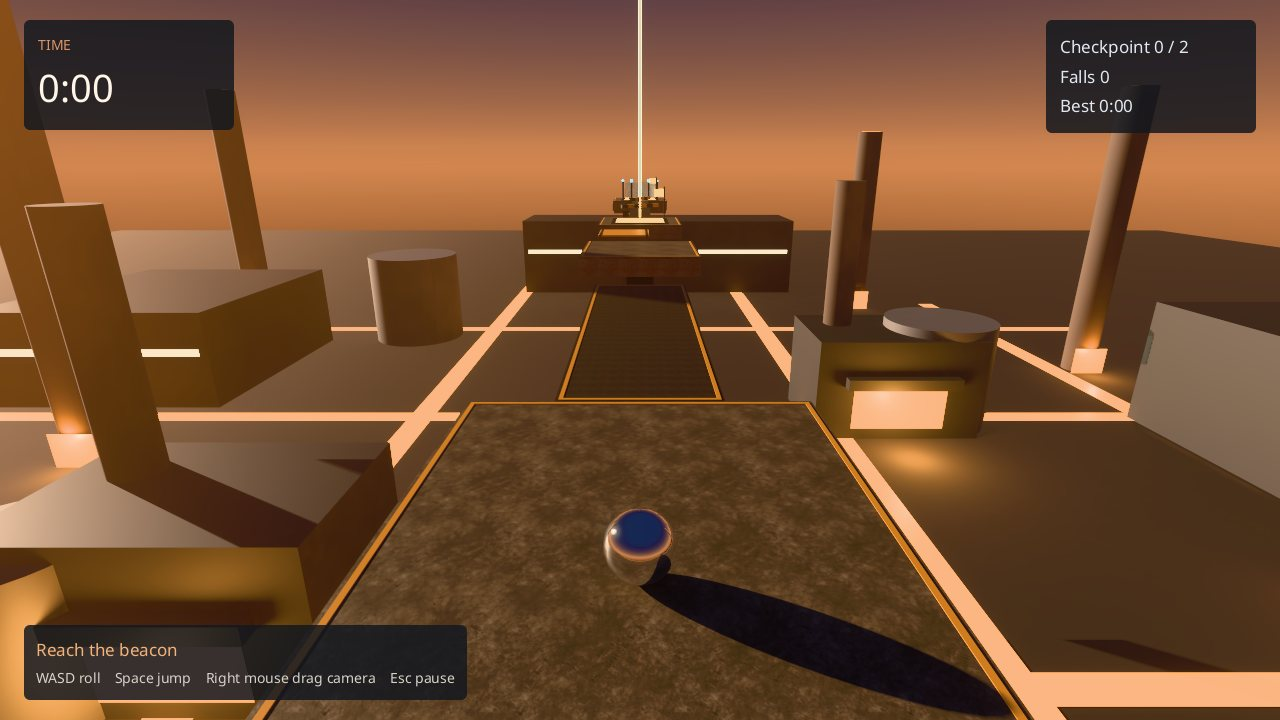
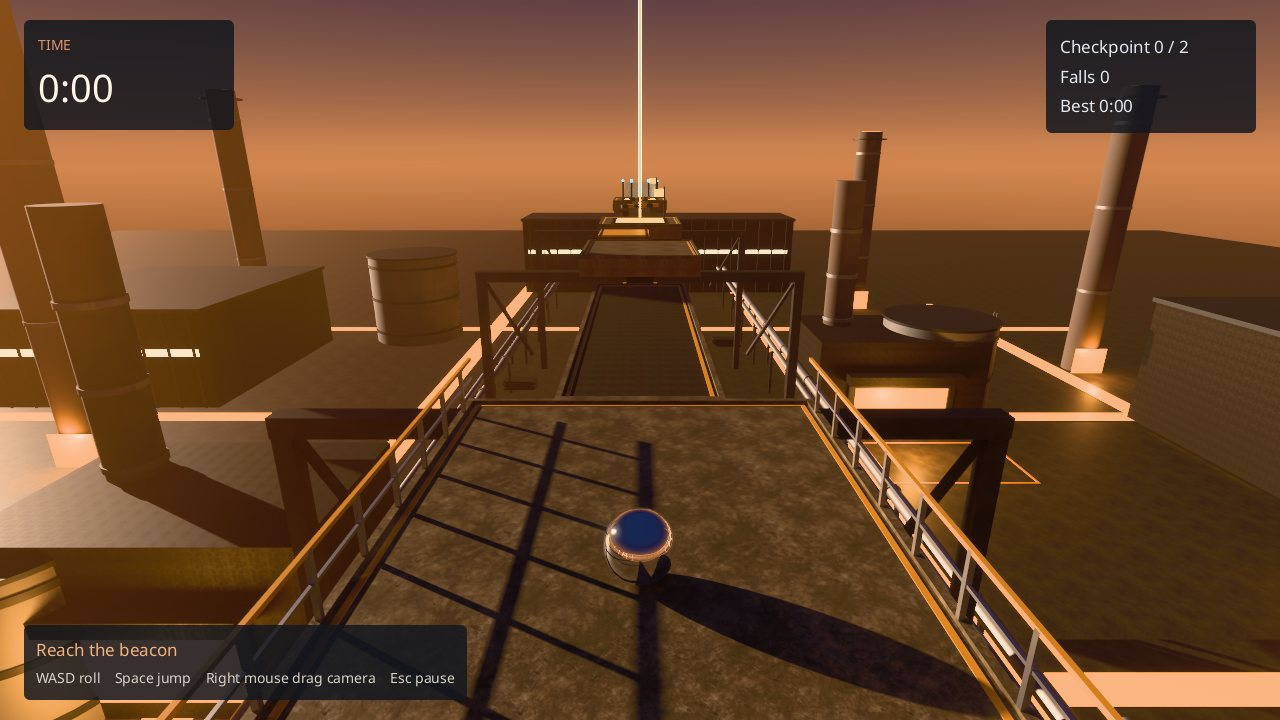
Glint look 2/3: the place
Kerbs and amber edge lines on the catwalk, a solid dock railing, a textured yard with route
markings, banded tanks with ladders, banded chimneys with platform rings, framed furnace
mouths with hazard borders, gantry frames across the route, pipe racks with flanges, plate
stacks, ribbed sheds. Replay unchanged: 1947 ticks (the rails are solid but the run never
touches them).

diff --git a/crates/ara-samples/src/build/glint/kits.rs b/crates/ara-samples/src/build/glint/kits.rs
@@ -9,7 +9,7 @@ use crate::{
 };
 use anyhow::Result;
 use glam::{Mat4, Vec2, Vec3};
-use std::path::Path;
+use std::{f32::consts::FRAC_PI_2, path::Path};
 
 /// Thickness of every slab, metres.
 pub const SLAB: f32 = 1.0;
@@ -102,12 +102,14 @@ pub fn course(root: &Path, lock: &Lock) -> Result<String> {
     const PLATE: usize = 2;
     const AMBER: usize = 3;
     const GIRDER: usize = 4;
+    const RAIL: usize = 5;
     let mut k = Kit::new(vec![
         Material::textured("rust steel", "rusty_metal_02").tinted([0.55, 0.5, 0.46]),
         Material::textured("poured concrete", "concrete_floor_02").tinted([0.72, 0.7, 0.66]),
         Material::textured("tread plate", "metal_plate").tinted([0.8, 0.82, 0.85]),
         Material::flat("amber paint", [0.85, 0.42, 0.08], 0.5, 0.0),
         Material::flat("black girder steel", [0.06, 0.065, 0.07], 0.55, 1.0),
+        Material::flat("galvanised rail", [0.72, 0.74, 0.76], 0.38, 1.0),
     ]);
     let body_m = meters(lock, "rusty_metal_02");
     let concrete_m = meters(lock, "concrete_floor_02");
@@ -124,8 +126,19 @@ pub fn course(root: &Path, lock: &Lock) -> Result<String> {
             Top::Plate => (PLATE, plate_m),
         };
         slab_box(&mut k, m, v(x0, s.top - cap, z0), v(x1, s.top, z1), uv);
-        // Amber edge line, 8 cm in from the border, 1.5 cm proud.
-        let e = 0.08;
+        // A concrete kerb along the border, then the amber edge line just inside it.
+        if s.size.0 > 2.0 {
+            let kerb = 0.14;
+            for (a, b) in [
+                (v(x0, s.top, z0), v(x1, s.top + 0.07, z0 + kerb)),
+                (v(x0, s.top, z1 - kerb), v(x1, s.top + 0.07, z1)),
+                (v(x0, s.top, z0 + kerb), v(x0 + kerb, s.top + 0.07, z1 - kerb)),
+                (v(x1 - kerb, s.top, z0 + kerb), v(x1, s.top + 0.07, z1 - kerb)),
+            ] {
+                slab_box(&mut k, CONCRETE, a, b, concrete_m);
+            }
+        }
+        let e = 0.22;
         let w = 0.1;
         let y = s.top + 0.012;
         for (a, b) in [
@@ -154,6 +167,25 @@ pub fn course(root: &Path, lock: &Lock) -> Result<String> {
             slab_box(&mut k, GIRDER, v(s.at.0 - c, bottom - depth, s.at.1 - c), v(s.at.0 + c, bottom, s.at.1 + c), Vec2::ONE);
         }
     }
+    // The start dock's railing: posts every 1.6 m along the back and both sides, an amber top
+    // rail and a steel mid rail. (Its collision is added by the scene; the runway side is open.)
+    let post = |k: &mut Kit, x: f32, z: f32| slab_box(k, RAIL, v(x - 0.04, 0.0, z - 0.04), v(x + 0.04, 1.05, z + 0.04), Vec2::ONE);
+    let mut x = -3.9;
+    while x <= 3.95 {
+        post(&mut k, x, -4.9);
+        x += 1.3;
+    }
+    for sx in [-3.9, 3.9] {
+        let mut z = -4.9;
+        while z <= 4.95 {
+            post(&mut k, sx, z);
+            z += 1.3;
+        }
+        slab_box(&mut k, AMBER, v(sx - 0.035, 1.0, -4.94), v(sx + 0.035, 1.07, 5.0), Vec2::ONE);
+        slab_box(&mut k, RAIL, v(sx - 0.025, 0.55, -4.94), v(sx + 0.025, 0.6, 5.0), Vec2::ONE);
+    }
+    slab_box(&mut k, AMBER, v(-3.94, 1.0, -4.94), v(3.94, 1.07, -4.86), Vec2::ONE);
+    slab_box(&mut k, RAIL, v(-3.94, 0.55, -4.94), v(3.94, 0.6, -4.88), Vec2::ONE);
     k.write(root, lock, "glint_course")
 }
 
@@ -232,8 +264,19 @@ pub fn goal(root: &Path, lock: &Lock) -> Result<String> {
     k.write(root, lock, "glint_goal")
 }
 
-/// The foundry yard far below the course: ground, slag channels, chimneys, tanks, sheds and
-/// a glazed control tower. Pure scenery, no collision.
+/// A horizontal cylinder from `start` along +X (`along == 0`) or +Z (`along == 1`).
+fn pipe(kit: &mut Kit, material: usize, radius: f32, start: Vec3, along: u32, length: f32) {
+    let rotation = if along == 0 {
+        Mat4::from_rotation_z(-FRAC_PI_2)
+    } else {
+        Mat4::from_rotation_x(FRAC_PI_2)
+    };
+    kit.cylinder(material, radius, length, 20, Mat4::from_translation(start) * rotation, Vec2::ONE);
+}
+
+/// The foundry yard far below the course: textured ground, route markings, slag channels,
+/// furnaces, chimneys and tanks with banding, gantry frames, pipe racks, plate stacks, sheds
+/// and a glazed control tower. Pure scenery, no collision.
 pub fn yard(root: &Path, lock: &Lock) -> Result<String> {
     const GROUND: usize = 0;
     const BRICK: usize = 1;
@@ -242,18 +285,30 @@ pub fn yard(root: &Path, lock: &Lock) -> Result<String> {
     const SHED: usize = 4;
     const GLASS: usize = 5;
     const WINDOW: usize = 6;
+    const PIPE: usize = 7;
+    const AMBER: usize = 8;
+    const MARK: usize = 9;
+    const STEEL: usize = 10;
+    const PLATES: usize = 11;
     let mut k = Kit::new(vec![
-        Material::flat("yard ground", [0.06, 0.055, 0.05], 0.95, 0.0),
+        Material::textured("yard concrete", "concrete_floor_02").tinted([0.2, 0.19, 0.18]),
         Material::flat("sooty brick", [0.15, 0.12, 0.105], 0.92, 0.0),
-        Material::flat("tank steel", [0.22, 0.23, 0.25], 0.62, 0.4),
+        Material::flat("tank steel", [0.24, 0.25, 0.27], 0.6, 0.45),
         Material::emitter("slag", [1.0, 0.38, 0.08]),
-        Material::flat("shed cladding", [0.07, 0.075, 0.08], 0.6, 0.6),
+        Material::textured("shed cladding", "metal_plate").tinted([0.16, 0.17, 0.19]),
         Material::glass("control glass", [0.6, 0.8, 0.9], 0.3),
         Material::emitter("window light", [1.0, 0.82, 0.55]),
+        Material::flat("pipe steel", [0.34, 0.35, 0.37], 0.5, 0.8),
+        Material::flat("amber paint", [0.85, 0.42, 0.08], 0.5, 0.0),
+        Material::flat("road marking", [0.7, 0.66, 0.55], 0.85, 0.0),
+        Material::flat("black girder steel", [0.06, 0.065, 0.07], 0.55, 1.0),
+        Material::textured("stacked plate", "metal_plate").tinted([0.3, 0.31, 0.33]),
     ]);
     let v = Vec3::new;
     let floor = YARD_FLOOR;
-    slab_box(&mut k, GROUND, v(-220.0, floor - 1.0, -120.0), v(220.0, floor, 260.0), Vec2::ONE);
+    let ground_m = meters(lock, "concrete_floor_02") * 2.0;
+    let plate_m = meters(lock, "metal_plate") * 2.0;
+    slab_box(&mut k, GROUND, v(-220.0, floor - 1.0, -120.0), v(220.0, floor, 260.0), ground_m);
     // Slag channels: long glowing strips in the ground.
     for (x, z0, z1) in [(-22.0, -40.0, 140.0), (26.0, -40.0, 140.0), (-60.0, 10.0, 120.0)] {
         slab_box(&mut k, SLAG, v(x - 1.4, floor + 0.01, z0), v(x + 1.4, floor + 0.06, z1), Vec2::ONE);
@@ -261,33 +316,116 @@ pub fn yard(root: &Path, lock: &Lock) -> Result<String> {
     for z in [20.0, 60.0, 100.0] {
         slab_box(&mut k, SLAG, v(-80.0, floor + 0.01, z - 1.2), v(80.0, floor + 0.05, z + 1.2), Vec2::ONE);
     }
-    // Chimneys: tall brick cylinders with a lit mouth.
+    // Floor markings that follow the route: a dashed centre line under the catwalk.
+    let mut z = -30.0;
+    while z < 124.0 {
+        slab_box(&mut k, MARK, v(-0.18, floor + 0.01, z), v(0.18, floor + 0.03, z + 2.4), Vec2::ONE);
+        z += 5.0;
+    }
+    // Furnaces: a dark block, a framed glowing mouth, a hood, a stack, amber hazard borders.
+    for (x, z) in FURNACES {
+        slab_box(&mut k, SHED, v(x - 9.0, floor, z - 6.0), v(x + 9.0, floor + 11.0, z + 6.0), plate_m);
+        slab_box(&mut k, SLAG, v(x - 5.0, floor + 1.2, z - 6.05), v(x + 5.0, floor + 6.0, z - 6.0), Vec2::ONE);
+        for (a, b) in [
+            (v(x - 5.6, floor + 0.9, z - 6.3), v(x - 5.0, floor + 6.6, z - 5.9)),
+            (v(x + 5.0, floor + 0.9, z - 6.3), v(x + 5.6, floor + 6.6, z - 5.9)),
+            (v(x - 5.6, floor + 6.0, z - 6.3), v(x + 5.6, floor + 6.6, z - 5.9)),
+        ] {
+            slab_box(&mut k, STEEL, a, b, Vec2::ONE);
+        }
+        slab_box(&mut k, SHED, v(x - 6.0, floor + 6.6, z - 7.4), v(x + 6.0, floor + 7.6, z - 5.8), plate_m);
+        k.cylinder(BRICK, 1.6, 16.0, 24, Mat4::from_translation(v(x + 5.0, floor + 11.0, z + 2.0)), Vec2::ONE);
+        for band in [0.0, 5.0, 10.0] {
+            k.cylinder(PIPE, 1.7, 0.4, 24, Mat4::from_translation(v(x + 5.0, floor + 11.5 + band, z + 2.0)), Vec2::ONE);
+        }
+        let (hx0, hx1, hz0, hz1) = (x - 10.0, x + 10.0, z - 16.0, z - 7.0);
+        for (a, b) in [
+            (v(hx0, floor + 0.01, hz0), v(hx1, floor + 0.04, hz0 + 0.25)),
+            (v(hx0, floor + 0.01, hz1 - 0.25), v(hx1, floor + 0.04, hz1)),
+            (v(hx0, floor + 0.01, hz0), v(hx0 + 0.25, floor + 0.04, hz1)),
+            (v(hx1 - 0.25, floor + 0.01, hz0), v(hx1, floor + 0.04, hz1)),
+        ] {
+            slab_box(&mut k, AMBER, a, b, Vec2::ONE);
+        }
+    }
+    // Chimneys: sooty brick with steel bands, a platform ring and a lit mouth.
     for (x, z, r, h) in CHIMNEYS {
         k.cylinder(BRICK, r, h, 32, Mat4::from_translation(v(x, floor, z)), Vec2::ONE);
+        for f in [0.3, 0.6, 0.88] {
+            k.cylinder(PIPE, r + 0.07, 0.4, 32, Mat4::from_translation(v(x, floor + h * f, z)), Vec2::ONE);
+        }
+        k.cylinder(STEEL, r + 0.9, 0.18, 32, Mat4::from_translation(v(x, floor + h - 1.4, z)), Vec2::ONE);
         k.cylinder(SLAG, r * 0.8, 0.3, 24, Mat4::from_translation(v(x, floor + h - 0.2, z)), Vec2::ONE);
         slab_box(&mut k, SLAG, v(x - 2.2, floor, z - r - 0.1), v(x + 2.2, floor + 3.6, z - r), Vec2::ONE);
     }
-    // Furnaces: a dark block, a wide glowing mouth, a hood and a short stack.
-    for (x, z) in FURNACES {
-        slab_box(&mut k, SHED, v(x - 9.0, floor, z - 6.0), v(x + 9.0, floor + 11.0, z + 6.0), Vec2::ONE);
-        slab_box(&mut k, SLAG, v(x - 5.0, floor + 1.2, z - 6.05), v(x + 5.0, floor + 6.0, z - 6.0), Vec2::ONE);
-        slab_box(&mut k, SHED, v(x - 6.0, floor + 6.0, z - 7.2), v(x + 6.0, floor + 7.2, z - 5.8), Vec2::ONE);
-        k.cylinder(BRICK, 1.6, 16.0, 24, Mat4::from_translation(v(x + 5.0, floor + 11.0, z + 2.0)), Vec2::ONE);
-    }
-    // Tanks and sheds.
+    // Tanks: banded steel, a cap, a caged ladder and a pipe stub.
     for (x, z, r, h) in [(-34.0, 60.0, 6.0, 12.0), (34.0, 20.0, 5.0, 10.0), (38.0, 96.0, 7.0, 14.0), (-30.0, 8.0, 4.5, 9.0)] {
         k.cylinder(TANK, r, h, 40, Mat4::from_translation(v(x, floor, z)), Vec2::ONE);
+        for f in [0.12, 0.5, 0.88] {
+            k.cylinder(STEEL, r + 0.1, 0.45, 40, Mat4::from_translation(v(x, floor + h * f, z)), Vec2::ONE);
+        }
+        k.cylinder(STEEL, r * 1.03, 0.3, 40, Mat4::from_translation(v(x, floor + h, z)), Vec2::ONE);
+        let lx = x - r - 0.15;
+        for dz in [-0.3, 0.3] {
+            slab_box(&mut k, PIPE, v(lx - 0.03, floor, z + dz - 0.03), v(lx + 0.03, floor + h + 0.8, z + dz + 0.03), Vec2::ONE);
+        }
+        let mut y = 0.5;
+        while y < h {
+            slab_box(&mut k, PIPE, v(lx - 0.03, floor + y, z - 0.3), v(lx + 0.03, floor + y + 0.05, z + 0.3), Vec2::ONE);
+            y += 0.6;
+        }
+        pipe(&mut k, PIPE, 0.28, v(x + r - 0.2, floor + 1.0, z), 1, 9.0);
     }
+    // Gantry frames across the route: uprights, a top beam, diagonal braces, a trolley.
+    for z in [14.0, 46.0, 78.0] {
+        let top = floor + 19.0;
+        for x in [-14.0, 14.0] {
+            slab_box(&mut k, STEEL, v(x - 0.4, floor, z - 0.4), v(x + 0.4, top + 0.6, z + 0.4), Vec2::ONE);
+            let flip = if x < 0.0 { 1.0 } else { -1.0 };
+            for dz in [-1.0, 1.0] {
+                k.cuboid(STEEL, v(0.25, 7.6, 0.25), Mat4::from_translation(v(x + flip * 2.3, top - 3.5, z + dz * 0.1)) * Mat4::from_rotation_z(flip * 0.52), Vec2::ONE);
+            }
+        }
+        slab_box(&mut k, STEEL, v(-14.4, top, z - 0.5), v(14.4, top + 0.9, z + 0.5), Vec2::ONE);
+        slab_box(&mut k, AMBER, v(-1.5, top - 1.4, z - 0.9), v(1.5, top, z + 0.9), Vec2::ONE);
+    }
+    // Pipe racks: two long runs along the route on frames, one run across the yard.
+    for (x, h) in [(-18.0, 6.0), (18.0, 4.5)] {
+        pipe(&mut k, PIPE, 0.5, v(x - 0.6, floor + h, -30.0), 1, 160.0);
+        pipe(&mut k, PIPE, 0.34, v(x + 0.7, floor + h, -30.0), 1, 160.0);
+        let mut zf = -28.0;
+        while zf < 128.0 {
+            slab_box(&mut k, STEEL, v(x - 1.2, floor, zf - 0.15), v(x - 0.9, floor + h - 0.5, zf + 0.15), Vec2::ONE);
+            slab_box(&mut k, STEEL, v(x + 0.9, floor, zf - 0.15), v(x + 1.2, floor + h - 0.5, zf + 0.15), Vec2::ONE);
+            slab_box(&mut k, STEEL, v(x - 1.2, floor + h - 0.5, zf - 0.15), v(x + 1.2, floor + h - 0.3, zf + 0.15), Vec2::ONE);
+            // A flange at each frame.
+            k.cylinder(PIPE, 0.62, 0.25, 20, Mat4::from_translation(v(x - 0.6, floor + h, zf)) * Mat4::from_rotation_x(FRAC_PI_2), Vec2::ONE);
+            zf += 12.0;
+        }
+    }
+    pipe(&mut k, PIPE, 0.42, v(-60.0, floor + 4.0, -26.0), 0, 120.0);
+    // Stacked plates and a few drums by the route.
+    for (x, z) in [(10.0, -14.0), (-12.0, -8.0), (16.0, 70.0), (-14.0, 90.0), (-8.0, 40.0)] {
+        for i in 0..6 {
+            let off = ((i * 37 + (x as i32) * 3) % 5) as f32 * 0.12 - 0.25;
+            slab_box(&mut k, PLATES, v(x - 2.0 + off, floor + 0.2 * i as f32, z - 1.0), v(x + 2.0 + off, floor + 0.2 * (i as f32 + 1.0), z + 1.0), plate_m);
+        }
+    }
+    // Sheds with ribs and a lit window band facing the course; a glazed control tower.
     for (x, z, sx, sz, h) in [(-70.0, 40.0, 24.0, 40.0, 14.0), (66.0, 78.0, 28.0, 30.0, 12.0), (-4.0, 140.0, 60.0, 16.0, 16.0), (80.0, 10.0, 20.0, 26.0, 10.0)] {
-        slab_box(&mut k, SHED, v(x - sx * 0.5, floor, z - sz * 0.5), v(x + sx * 0.5, floor + h, z + sz * 0.5), Vec2::ONE);
-        // A band of lit windows along the side facing the course.
+        slab_box(&mut k, SHED, v(x - sx * 0.5, floor, z - sz * 0.5), v(x + sx * 0.5, floor + h, z + sz * 0.5), plate_m);
         slab_box(&mut k, WINDOW, v(x - sx * 0.5 + 1.0, floor + h * 0.55, z - sz * 0.5 - 0.05), v(x + sx * 0.5 - 1.0, floor + h * 0.55 + 0.9, z - sz * 0.5), Vec2::ONE);
+        let mut rx = x - sx * 0.5 + 1.5;
+        while rx < x + sx * 0.5 - 1.0 {
+            slab_box(&mut k, STEEL, v(rx - 0.12, floor, z - sz * 0.5 - 0.25), v(rx + 0.12, floor + h, z - sz * 0.5), Vec2::ONE);
+            rx += 3.0;
+        }
+        slab_box(&mut k, STEEL, v(x - sx * 0.5 - 0.3, floor + h, z - sz * 0.5 - 0.3), v(x + sx * 0.5 + 0.3, floor + h + 0.5, z + sz * 0.5 + 0.3), Vec2::ONE);
     }
-    // Control tower: a glazed box on legs with a lit interior.
     let (tx, tz) = (-48.0, 2.0);
-    slab_box(&mut k, SHED, v(tx - 1.0, floor, tz - 1.0), v(tx + 1.0, floor + 14.0, tz + 1.0), Vec2::ONE);
+    slab_box(&mut k, SHED, v(tx - 1.0, floor, tz - 1.0), v(tx + 1.0, floor + 14.0, tz + 1.0), plate_m);
     slab_box(&mut k, WINDOW, v(tx - 4.0, floor + 15.0, tz - 4.0), v(tx + 4.0, floor + 15.4, tz + 4.0), Vec2::ONE);
     slab_box(&mut k, GLASS, v(tx - 4.5, floor + 15.4, tz - 4.5), v(tx + 4.5, floor + 18.4, tz + 4.5), Vec2::ONE);
-    slab_box(&mut k, SHED, v(tx - 5.0, floor + 18.4, tz - 5.0), v(tx + 5.0, floor + 18.9, tz + 5.0), Vec2::ONE);
+    slab_box(&mut k, STEEL, v(tx - 5.0, floor + 18.4, tz - 5.0), v(tx + 5.0, floor + 18.9, tz + 5.0), Vec2::ONE);
     k.write(root, lock, "glint_yard")
 }

diff --git a/crates/ara-samples/src/build/glint/mod.rs b/crates/ara-samples/src/build/glint/mod.rs
@@ -199,6 +199,14 @@ fn game(ctx: &Ctx) -> Result<()> {
             }),
         );
     }
+    // The dock's railing is solid: back and both sides, the runway side open.
+    for (id, at, half) in [
+        ("e_rail0", [0.0, 0.5, -4.93], [4.0, 0.5, 0.07]),
+        ("e_rail1", [-3.93, 0.5, 0.0], [0.07, 0.5, 5.0]),
+        ("e_rail2", [3.93, 0.5, 0.0], [0.07, 0.5, 5.0]),
+    ] {
+        s.entity(id, "Dock railing", json!({"Transform": {"position": at}, "RigidBody": {"motion": "static"}, "Collider": {"halfExtents": half}}));
+    }
     pads(&mut s, &models, true);
     // The ball: a chrome dynamic sphere driven by BallController; PlayerControl gives it an
     // input slot and its follow camera's orbit.
